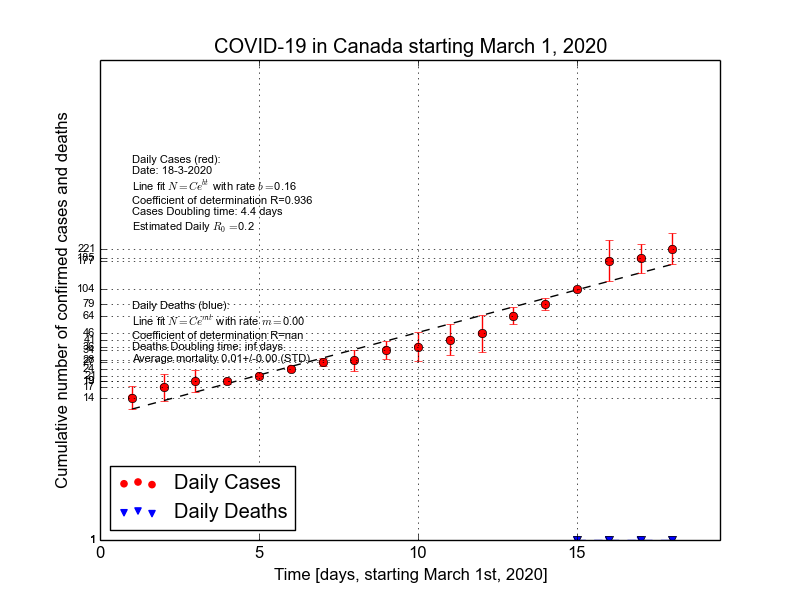
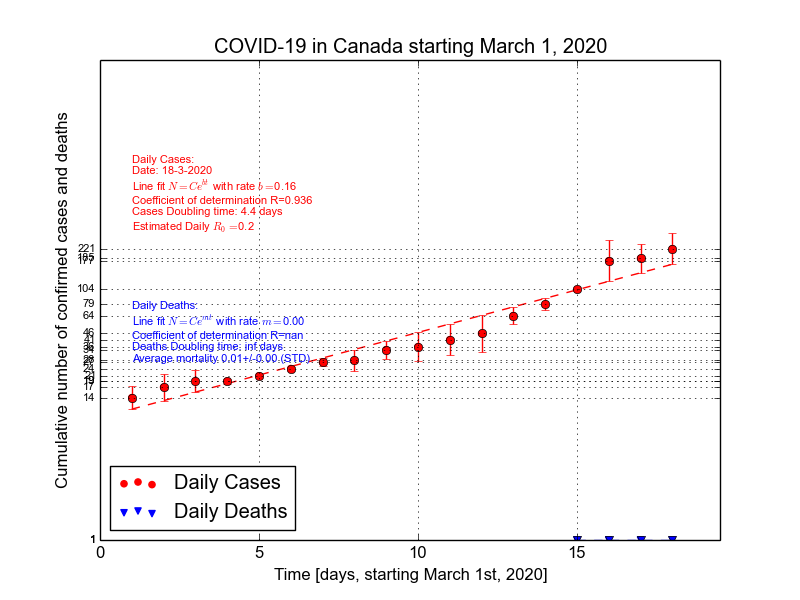
factored in slowdown

Changed region(s): [[0.1562, 0.24, 0.375, 0.39], [0.1562, 0.48, 0.375, 0.63]]

diff --git a/cov_lin_models.py b/cov_lin_models.py
@@ -32,6 +32,12 @@ UK_DAILY_DEATH_DATA = "https://www.arcgis.com/sharing/rest/content/items/bc8ee90
 # data stores: Johns Hopkins data
 JOHN_HOPKINS = "https://raw.githubusercontent.com/CSSEGISandData/COVID-19/master/csse_covid_19_data/csse_covid_19_daily_reports"
 
+# slowing countries: countries that show a consistent slowing trend
+# slowing down value = date in March that is roughly the start of slowdown
+SLOWDOWN = {"Belgium": 13, 
+            "Ireland": 15,
+            "Netherlands": 13}
+
 def c_of_d(ys_orig, ys_line):
     """Compute the line R squared."""
     y_mean_line = [np.mean(ys_orig) for y in ys_orig]
@@ -59,7 +65,7 @@ def get_linear_parameters(x, y):
 
 def get_plot_text(slope, country, R, d_time, R0, x, month):
     """Set plot title, subtitle, text."""
-    plot_text = "Daily Cases (red):" + "\n" + \
+    plot_text = "Daily Cases:" + "\n" + \
                 "Date: %s-%s-2020" % (str(int(x[-1])), month) + "\n" + \
                 "Line fit $N=Ce^{bt}$ with rate $b=$%.2f" % slope + "\n" + \
                 "Coefficient of determination R=%.3f" % R + "\n" + \
@@ -72,7 +78,7 @@ def get_plot_text(slope, country, R, d_time, R0, x, month):
 
 def get_deaths_plot_text(slope, country, R, d_time, avg_mort, stdev_mort):
     """Set text for deaths."""
-    plot_text = "Daily Deaths (blue):" + "\n" + \
+    plot_text = "Daily Deaths:" + "\n" + \
                 "Line fit $N=Ce^{mt}$ with rate $m=$%.2f" % slope + "\n" + \
                 "Coefficient of determination R=%.3f" % R + "\n" + \
                 "Deaths Doubling time: %.1f days" % d_time + "\n" + \
@@ -131,15 +137,37 @@ def plot_countries(datasets, month, country):
     x_deaths = [float(n) for n in range(int(x_cases[-1]) - len(deaths) + 1,
                                         int(x_cases[-1]) + 1)]
 
-    # statistics: cases
+    # statistics: cases: account for slowdown
+    d_time_s = []
+    R0_s = []
+    if country in SLOWDOWN:
+        slowdown_index = x_cases.index(SLOWDOWN[country])
+        y_slow = y_cases[slowdown_index:]
+        x_slow = x_cases[slowdown_index:]
+        x_cases = x_cases[0:slowdown_index]
+        y_cases = y_cases[0:slowdown_index]
+
+        # get linear params for slowdown
+        poly_x_s, R_s, y_err_s, slope_s, d_time_s, R0_s = get_linear_parameters(
+            x_slow,
+            y_slow)
+        plot_text_s, plot_name_s = get_plot_text(slope_s, country,
+                                                 R_s, d_time_s, R0_s,
+                                                 x_slow,
+                                                 month)
+    # get linear params
     poly_x, R, y_err, slope, d_time, R0 = get_linear_parameters(
         x_cases,
         y_cases)
+    if d_time_s and R0_s:
+        d_time = np.mean(np.append(d_time, d_time_s))
+        R0 = np.mean(np.append(R0, R0_s))
 
     # plot parameters: cases
     plot_text, plot_name = get_plot_text(slope, country,
                                          R, d_time, R0,
-                                         x_cases, month)
+                                         x_cases,
+                                         month)
 
     # compute average mortality
     delta = len(cases) - len(deaths)
@@ -171,7 +199,13 @@ def plot_countries(datasets, month, country):
     # plotting cases
     plt.scatter(x_cases, y_cases, color='r',
                 label="Daily Cases")
-    plt.plot(x_cases, poly_x, '--k')
+    plt.plot(x_cases, poly_x, '--r')
+
+    # plot slowdown
+    if country in SLOWDOWN:
+        plt.scatter(x_slow, y_slow, color='g',
+                    label="Daily Cases Slower")
+        plt.plot(x_slow, poly_x_s, '-g')
     if deaths:
         plt.scatter(x_deaths, y_deaths, marker='v',
                     color='b', label="Daily Deaths")
@@ -182,10 +216,19 @@ def plot_countries(datasets, month, country):
     plt.grid()
     plt.xlim(0., x_cases[-1] + 1.5)
     plt.ylim(0., y_cases[-1] + 3.5)
+    if country in SLOWDOWN:
+        plt.xlim(0., x_slow[-1] + 1.5)
+        plt.ylim(0., y_slow[-1] + 3.5)
     _common_plot_stuff(country)
-    plt.text(1., y_cases[-1] + 0.3, plot_text, fontsize=8)
-    if deaths:
-        plt.text(1., y_cases[-1] - 2.1, plot_text_d, fontsize=8)
+    if country in SLOWDOWN:
+        plt.text(1., y_slow[-1] + 0.3, plot_text_s, fontsize=8, color='g')
+        plt.text(1., y_slow[-1] - 1.5, plot_text, fontsize=8, color='r')
+        if deaths:
+            plt.text(1., y_slow[-1] - 3.1, plot_text_d, fontsize=8, color='b')
+    else:
+        plt.text(1., y_cases[-1] + 0.3, plot_text, fontsize=8, color='r')
+        if deaths:
+            plt.text(1., y_cases[-1] - 2.1, plot_text_d, fontsize=8, color='b')
     plt.legend(loc="lower left")
     plt.yticks(y_all, [np.int(y01) for y01 in y_all_real])
     plt.tick_params(axis="y", labelsize=8)

diff --git a/README.md b/README.md
@@ -54,6 +54,12 @@ as compared to the initial 0.41 day-1.
 Situation around the world (updated daily)
 ------------------------------------------
 
+Even though most of the countries display an exponential spread,
+some of the (smaller) countries that have bad measures taken
+display a slow-down in the number of daily cases (WARNING: this
+could well be because of a drop in number of tests!). Look
+for the green lines, representing slow-down.
+
 ![COVID-19 France Evolution](country_plots/COVID-19_LIN_France.png)
 ![COVID-19 Belgium Evolution](country_plots/COVID-19_LIN_Belgium.png)
 ![COVID-19 Spain Evolution](country_plots/COVID-19_LIN_Spain.png)
